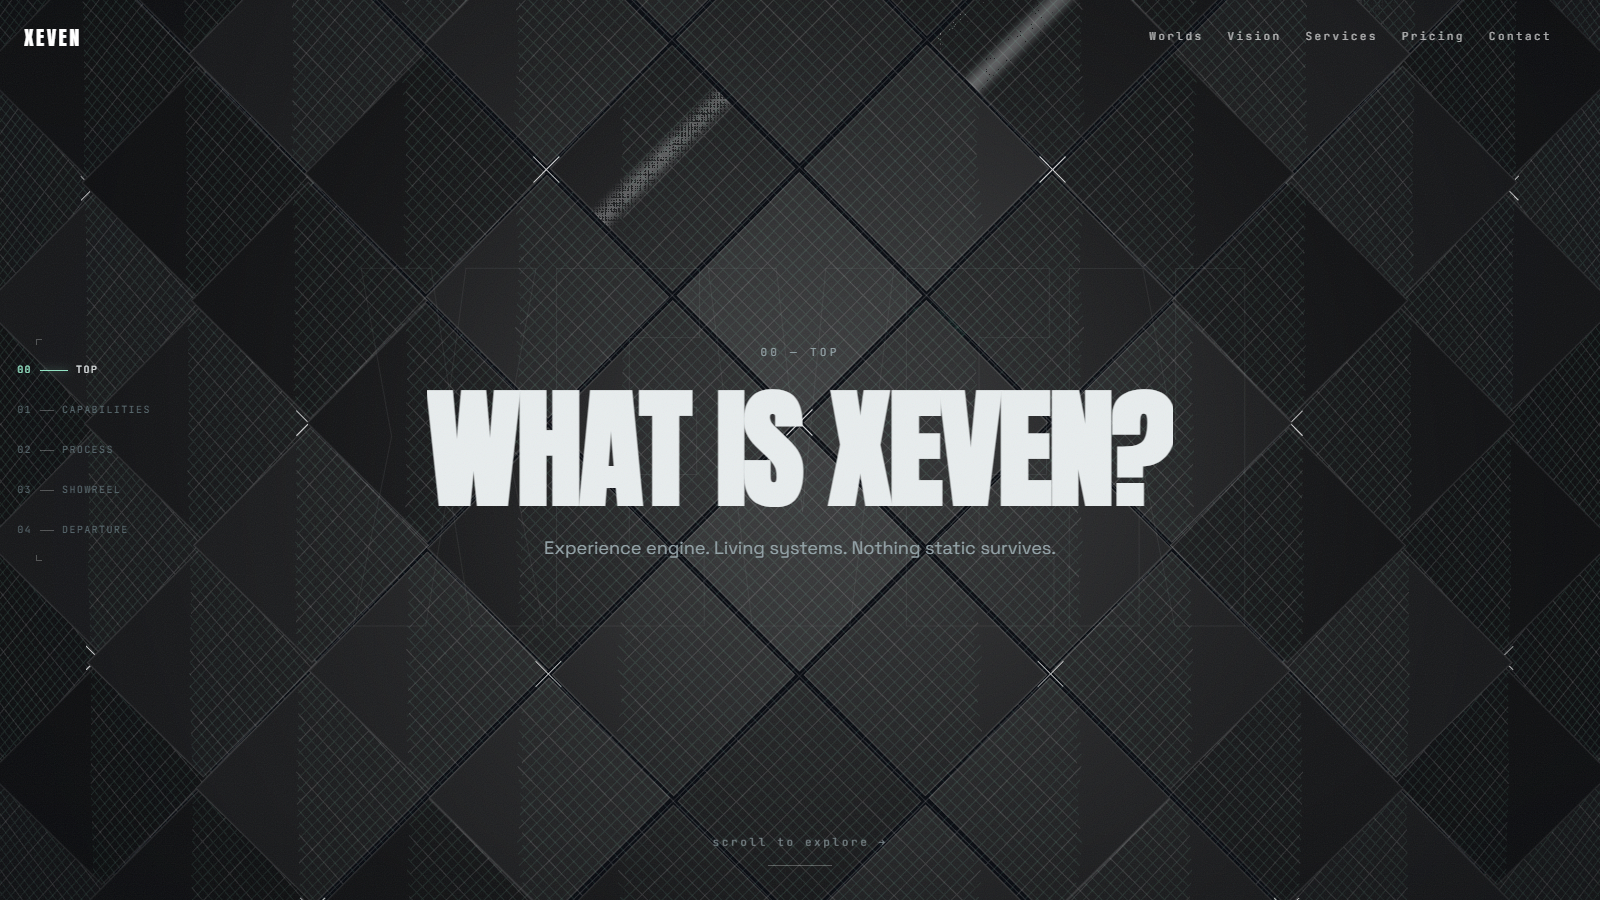
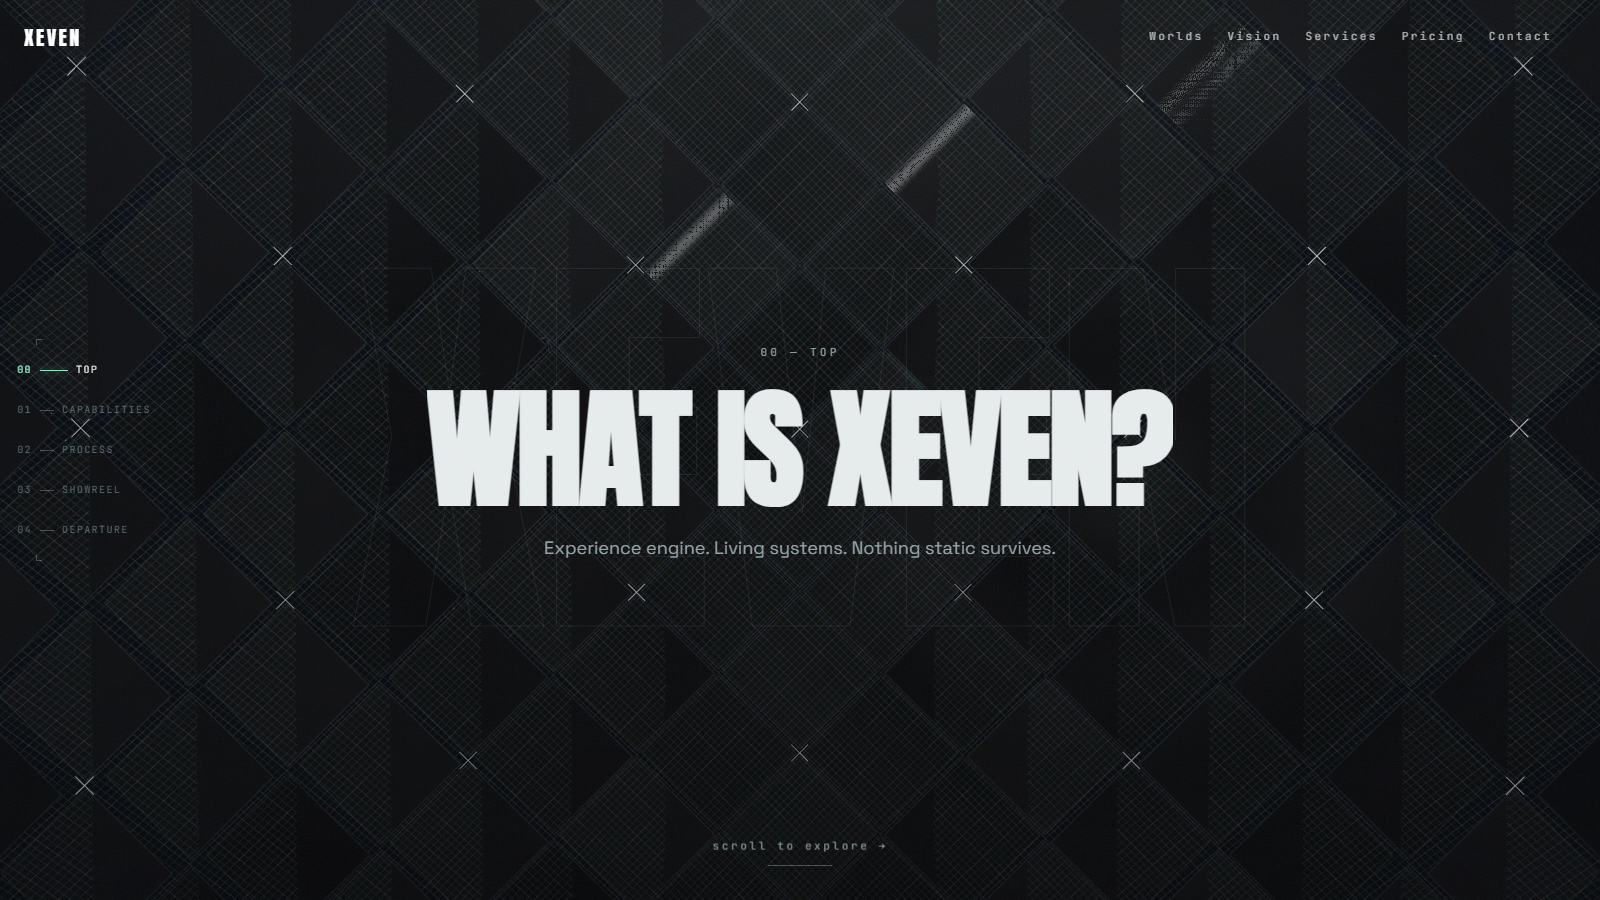
Execute A: inward cylinder, glass finish, liquid press, zero cursor light

diff --git a/src/components/VoidWorld.tsx b/src/components/VoidWorld.tsx
@@ -16,12 +16,13 @@ gsap.registerPlugin(ScrollTrigger)
  * normalized-progress waypoint camera (Grantmantek/zyliu grammar) lerped in
  * the loop so motion stays interruptible and scrub-reversible.
  *
- * The world: a 45° diamond lattice bowed on a convex cylinder (baked once
- * per resize), black quad panels with in-shader borders + breathing shimmer
- * + cursor kindle + 7s roaming cinema, plus survey crosses, an additive
- * starfield, four lit wireframe solids, exponential haze, and the shapeless
- * cursor presence is kindle light only: the field breathes around the
- * pointer, but no line, streak, or shape ever chases it — by design.
+ * The world: a 45° diamond lattice bowed on an INWARD (concave) cylinder —
+ * centre recedes, flanks come close, you sit inside it. Black quad panels
+ * with in-shader borders + breathing shimmer + 7s roaming cinema, survey
+ * crosses, an additive starfield, four lit wireframe solids, exponential
+ * haze. The pointer lights NOTHING, ever — its only touch is the liquid
+ * press (ripple + gloss that settles back solid). A fixed glass finish
+ * layer (DOM, zero blur) sits above for the crystal grade.
  *
  * 4D (time as the fourth dimension): uTime drives the cinema clock, haze
  * breathing, rim orbit and shimmer phase — the world evolves standing still.
@@ -32,11 +33,10 @@ gsap.registerPlugin(ScrollTrigger)
 
 const VOID = new THREE.Color(0x06090f)
 // world scale, calibrated to the mock's on-screen densities: quad ≈ 140px,
-// kindle σ ≈ 190px, plus grid ≈ 280px at 1600×900 (anything ~3× bigger
-// washes the field gray and triples the kindle falloff)
+// plus grid ≈ 280px at 1600×900
 const HALF = 14 // field half-extent, world units
 const GAP = 0.45
-const BOW = 2.2 // convex bulge at centre, world units
+const BOW = 2.2 // concave hollow at centre, world units
 const IDLE_MS = 6000
 
 const SECTIONS = [
@@ -97,8 +97,10 @@ export default function VoidWorld() {
 
     // ---- static geometry (rebuilt per resize / route tier) ----
     let statics: THREE.Object3D[] = []
+    // inward cylinder: the centre recedes, the flanks come close — you sit
+    // INSIDE the cylinder looking at walls curving away (subpages run flat).
     const bowZ = (x: number, showcase: boolean) =>
-      showcase ? BOW * Math.max(0, 1 - (x / HALF) * (x / HALF)) : 0
+      showcase ? -BOW * Math.max(0, 1 - (x / HALF) * (x / HALF)) : 0
 
     function buildStatic(showcase: boolean) {
       for (const o of statics) {
@@ -192,10 +194,7 @@ export default function VoidWorld() {
     quadGeo.setAttribute('aQJ', new THREE.InstancedBufferAttribute(aQJ, 1))
     const quadUniforms = {
       uTime: { value: 0 },
-      uCursor: { value: new THREE.Vector2(9999, 9999) },
-      uEcho: { value: new THREE.Vector2(9999, 9999) },
-      uStir: { value: 0 },
-      uBloom: { value: 0 },
+      uPress: { value: new THREE.Vector3(0, 0, -100) },
       uVel: { value: 0 },
       uShowcase: { value: 1 },
       uVoid: { value: new THREE.Vector3(0.0235, 0.0353, 0.0588) },
@@ -223,10 +222,7 @@ export default function VoidWorld() {
       `,
       fragmentShader: /* glsl */ `
         uniform float uTime;
-        uniform vec2 uCursor;
-        uniform vec2 uEcho;
-        uniform float uStir;
-        uniform float uBloom;
+        uniform vec3 uPress;
         uniform float uVel;
         uniform float uShowcase;
         uniform vec3 uVoid;
@@ -247,16 +243,21 @@ export default function VoidWorld() {
             1.0 - smoothstep(0.0, e.x * 1.5 + 1e-4, b.x),
             1.0 - smoothstep(0.0, e.y * 1.5 + 1e-4, b.y));
           col += vec3(1.0) * bl * 0.16;
-          // breathing shimmer riding the bow axis
+          // breathing shimmer riding the bow axis (scroll-kindled only —
+          // the pointer lights nothing, ever)
           float wave = 0.03 + 0.04 * (0.5 + 0.5 * sin(uTime * 1.5 - (vWorld.x * 0.14 + vWorld.y * 0.05) + vSeed * 6.28));
-          float amp = 1.0 + uStir * 0.9 + uBloom * 0.6 + uVel * 0.3;
+          float amp = 1.0 + uVel * 0.3;
           float glow = wave * amp;
-          // kindle falloffs in world units (≈190px / ≈330px at 1600×900)
-          float dc = distance(vWorld.xy, uCursor);
-          glow += (0.11 + uBloom * 0.1) * exp(-dc * dc / 12.0);
-          float de = distance(vWorld.xy, uEcho);
-          glow += 0.045 * exp(-de * de / 36.0);
           col += vec3(1.0) * glow * uShowcase;
+          // liquid press: a ripple + gloss swell where the pointer last
+          // touched, settling back solid over ~3.5s. Touch, not hover.
+          float age = uTime - uPress.z;
+          if (age > 0.0 && age < 4.0) {
+            float dp = distance(vWorld.xy, uPress.xy);
+            float ring = sin(dp * 2.2 - age * 5.0) * exp(-age * 1.0) * exp(-dp * 0.22);
+            float gloss = exp(-dp * dp / 8.0) * exp(-age * 0.9);
+            col += vec3(1.0) * (ring * 0.22 + gloss * 0.18) * uShowcase;
+          }
           // roaming cinema: sparse panels on a 7s clock
           float slot = floor(uTime / 7.0);
           float lp = fract(uTime / 7.0);
@@ -373,20 +374,11 @@ export default function VoidWorld() {
       group.add(mesh)
     }
 
-    // ---- cursor presence: eased finger + echo ring feed the shader
-    // kindle (light that breathes around the pointer). No streak geometry —
-    // nothing draws lines that chase the cursor, by design.
+    // ---- liquid press feed: pointer position for the ripple (touch only —
+    // the pointer lights nothing, ever; this only stamps where it pressed)
     let btx = window.innerWidth / 2
     let bty = window.innerHeight / 2
-    let bInside = true
-    let ccx = btx
-    let ccy = bty
-    let cvx = 0
-    let cvy = 0
-    let stir = 0
-    let bloom = 0
-    let ptx = btx
-    let pty = bty
+    let lastPressT = -10000
 
     // ---- waypoint journey ----
     let fracs: number[] = []
@@ -426,7 +418,6 @@ export default function VoidWorld() {
     const ndc = new THREE.Vector2()
     const plane = new THREE.Plane(new THREE.Vector3(0, 0, 1), -2.5)
     const hit = new THREE.Vector3()
-    const echo = { x: 9999, y: 9999 }
 
     const clock = new THREE.Clock()
     let lastInput = performance.now()
@@ -442,7 +433,7 @@ export default function VoidWorld() {
     function loop() {
       const dt = Math.min(0.05, clock.getDelta())
       const t = clock.elapsedTime
-      if (performance.now() - lastInput > IDLE_MS && bloom <= 0.01 && stir <= 0.03) {
+      if (performance.now() - lastInput > IDLE_MS) {
         xs.vel = 0
         ticking = false
         gsap.ticker.remove(loop)
@@ -486,39 +477,12 @@ export default function VoidWorld() {
           mm.userData.by + Math.sin(t * mm.userData.fs + mm.userData.fo) * mm.userData.fa
       }
 
-      // cursor feed: eased finger + echo ring + velocity + click bloom
-      if (bInside) {
-        ccx += (btx - ccx) * 0.18
-        ccy += (bty - ccy) * 0.18
-        echo.x += (btx - echo.x) * 0.07
-        echo.y += (bty - echo.y) * 0.07
-      }
-      const rvx = (btx - ptx) / Math.max(1, dt * 1000)
-      const rvy = (bty - pty) / Math.max(1, dt * 1000)
-      ptx = btx
-      pty = bty
-      cvx += (rvx - cvx) * 0.15
-      cvy += (rvy - cvy) * 0.15
-      const spd = Math.hypot(cvx, cvy)
-      stir += ((bInside ? Math.min(1, spd * 0.9) : 0) - stir) * 0.08
-      bloom = Math.max(0, bloom * Math.pow(0.93, (dt * 1000) / 16.7))
+      // scroll kindle only (the pointer lights nothing — see uPress)
       const vBoost = Math.min(1, xs.vel * 1.5) * 0.3
       xs.vel *= 0.9
 
-      // uniforms: the whole quad field runs on these + time
-      ndc.set((ccx / window.innerWidth) * 2 - 1, -(ccy / window.innerHeight) * 2 + 1)
-      raycaster.setFromCamera(ndc, camera)
-      if (raycaster.ray.intersectPlane(plane, hit)) {
-        ;(quadUniforms.uCursor.value as THREE.Vector2).set(hit.x, hit.y)
-      }
-      ndc.set((echo.x / window.innerWidth) * 2 - 1, -(echo.y / window.innerHeight) * 2 + 1)
-      raycaster.setFromCamera(ndc, camera)
-      if (raycaster.ray.intersectPlane(plane, hit)) {
-        ;(quadUniforms.uEcho.value as THREE.Vector2).set(hit.x, hit.y)
-      }
+      // uniforms: the whole quad field runs on time + scroll + press
       quadUniforms.uTime.value = t
-      quadUniforms.uStir.value = stir
-      quadUniforms.uBloom.value = bloom
       quadUniforms.uVel.value = vBoost
 
       renderer.render(scene, camera)
@@ -527,20 +491,18 @@ export default function VoidWorld() {
     const onMove = (e: PointerEvent) => {
       pm.x = e.clientX / window.innerWidth - 0.5
       pm.y = e.clientY / window.innerHeight - 0.5
+      // liquid press, throttled: stamp position + time, the shader settles
+      // it back solid over ~2.5s. No hover light, no follow glow.
+      const now = performance.now()
+      if (now - lastPressT < 60) return
+      lastPressT = now
       btx = e.clientX
       bty = e.clientY
-      bInside = true
-      if (echo.x > 9000) {
-        echo.x = btx
-        echo.y = bty
+      ndc.set((btx / window.innerWidth) * 2 - 1, -(bty / window.innerHeight) * 2 + 1)
+      raycaster.setFromCamera(ndc, camera)
+      if (raycaster.ray.intersectPlane(plane, hit)) {
+        ;(quadUniforms.uPress.value as THREE.Vector3).set(hit.x, hit.y, clock.elapsedTime)
       }
-    }
-    const onDown = (e: PointerEvent) => {
-      onMove(e)
-      bloom = 1
-    }
-    const onGone = () => {
-      bInside = false
     }
     const onResize = () => {
       camera.aspect = window.innerWidth / window.innerHeight
@@ -554,7 +516,6 @@ export default function VoidWorld() {
       buildStatic(showcase)
       layoutQuads(showcase)
       quadUniforms.uShowcase.value = showcase ? 1 : 0.5
-      bloom = 1 // switch pulse knits the X veil to the field
       computeWaypoints()
       wake()
     }
@@ -591,24 +552,18 @@ export default function VoidWorld() {
     gsap.ticker.add(loop)
     window.addEventListener('pointermove', onMove, { passive: true })
     window.addEventListener('pointermove', wake, { passive: true })
-    window.addEventListener('pointerdown', onDown, { passive: true })
     window.addEventListener('pointerdown', wake, { passive: true })
     window.addEventListener('wheel', wake, { passive: true })
     window.addEventListener('scroll', wake, { passive: true })
-    window.addEventListener('pointerleave', onGone, { passive: true })
-    window.addEventListener('blur', onGone)
     window.addEventListener('resize', onResize)
     window.addEventListener('hashchange', onHash)
     document.addEventListener('visibilitychange', onVis)
     return () => {
       window.removeEventListener('pointermove', onMove)
       window.removeEventListener('pointermove', wake)
-      window.removeEventListener('pointerdown', onDown)
       window.removeEventListener('pointerdown', wake)
       window.removeEventListener('wheel', wake)
       window.removeEventListener('scroll', wake)
-      window.removeEventListener('pointerleave', onGone)
-      window.removeEventListener('blur', onGone)
       window.removeEventListener('resize', onResize)
       window.removeEventListener('hashchange', onHash)
       document.removeEventListener('visibilitychange', onVis)

diff --git a/src/chrome.css b/src/chrome.css
@@ -31,6 +31,15 @@
 /* world layer: the unified VOIDWORLD canvas (lattice + panels + solids +
    presence, one draw journey) below content (same z token, later in DOM) */
 .world-fixed { position: fixed; inset: 0; z-index: var(--z-graph); pointer-events: none; }
+/* glass finish: lens grade between world and content. Top sheen + deep
+   vignette unify the field into a crystal finish. Zero blur, zero
+   backdrop-filter (both repaint the field every frame) — gradients only. */
+.glass-finish {
+  position: fixed; inset: 0; z-index: var(--z-graph); pointer-events: none;
+  background:
+    radial-gradient(120% 70% at 50% 0%, rgba(232, 237, 238, 0.055), transparent 55%),
+    radial-gradient(150% 130% at 50% 115%, rgba(0, 0, 0, 0.5), transparent 62%);
+}
 /* no custom cursor: native pointer only, fully visible, zero decoration. */
 
 /* ---------- topbar: bar-free by design ---------- */

diff --git a/src/App.tsx b/src/App.tsx
@@ -120,6 +120,9 @@ export default function App() {
       <Suspense fallback={null}>
         <VoidWorld />
       </Suspense>
+      {/* glass finish: a lens grade between world and content — sheen +
+          depth vignette, zero blur, zero backdrop-filter, pointer-transparent */}
+      <div className="glass-finish" aria-hidden="true" />
       <main id="main" key={route}>
         <Suspense fallback={null}>
           {route === 'enter' && <EnterStage />}

diff --git a/backlog.md b/backlog.md
@@ -52,6 +52,7 @@ Scope frozen: map-only phase found zero blank routes, zero dead links, zero cons
 - [x] STRATA background lineage (G:\mocks\background mock 01 replaces the dot lattice): ported archBg + cursor blob + pointer feed to src/components/strata/; GraphBg.tsx DELETED (App now mounts StrataBg). Mock locks kept (parked sheet, no cursor pull, native cursor, motion-intensity blob that drains at rest, baked static layers, adaptive DPR). Improvements over the mock: void #06090f base (melts into page, black mesh still carves), mint micro-fractures (no purple), showcase tier (index full convex bow + full glow, subpages flat + half glow, rebuild on hashchange), scroll-velocity kindle via xs.vel (decayed in-frame), 6s idle sleep with input wake, hidden-tab pause, route-switch bloom pulse knitting the X veil. Seamless-experience wiring: clicks bloom anywhere, flicks stir the field, switches flash the field under the veil. Verified: build green, tsc clean, oxlint 3 pre-existing warnings, Edge 60fps hero / 0 errors / 0 overflow (1600 + 390), canvas overscanned 1696×996 @ −48/−48, old canvas gone, worlds flat tier persists. Frames e0/e1/e2 VISUALLY VERIFIED (convex bow + mesh + plus marks + mint fractures + kindle glow + quad chevrons; deck cards over the field; flat diamond on Worlds). Evidence: verify/strata/d2-strata.json + 3 frames, scripts/d2-strata.mjs.
 - [x] VOIDWORLD from scratch (unified 1-canvas-1-ticker-1-journey rebuild; STRATA 2D + void-objects layers both retired): per-step research (baked-BufferGeometry line families, InstancedMesh + ShaderMaterial per-instance-attribute fields, waypoint-camera grammar) then rebuilt the lineage as real 3D — 45° diamond lattice bowed on a convex cylinder (baked once per resize; 3 static draws: bone grid / mint micro / survey crosses), 225 instanced diamond panels aligned to the rails with in-shader hairline borders + breathing shimmer + cursor/echo kindle + 7s roaming cinema, starfield, 4 lit wireframe solids, FogExp2 haze, ported cursor-blob streaks, waypoint camera (1 stop per index section, lerped = interruptible + scrub-reversible), uTime 4D evolution, DPR caps, 6s idle sleep, hidden-tab pause, single-frame reduced stand-down, full dispose. Debugged with evidence at each step: rescaled world 3× to mock densities (fixed gray wash), corrected rail basis (a collapsed line family), aligned quads to rails as diamonds, dimmed borders to hairlines — verified by pixel sampling + layer-isolation probes + a kept __voidworld debug handle. Verified: build green, tsc clean, 3 pre-existing warnings, Edge 0 errors / 0 overflow, legacy canvases gone, worlds flat-park + return alive, deck/ghost/thread/rail/counter/clock intact over the new field. PERF HONESTY: 12fps headless SwiftShader (CPU rasterizer, fill-bound) vs 60fps strata-only same env — ~10 draw calls, no postprocessing, sleeps at idle; GPU hardware idles this scene, number is environment tax. Chunk: VoidWorld async 556KB raw / 140KB gzip, never blocks first paint. Frames g0/g1/g2 + iso-nq2 VISUALLY VERIFIED (diamond bow, kindle at cursor, deck over field, ember rows, finale rail). Evidence: verify/world/d4-world.json + 3 frames, scripts/d4-world.mjs.
 - [x] Correction pass (9 notes): bar-free navbar (content floats, zero bar chrome); custom cursor fully deleted (native only, 0 dots 0 rings verified); rail clears the process gutter (rows + spine shifted right, thread/stub/node math follows, mobile reclaims gutter); X grow + white spread removed (mark simply yields at proc end, process integrates with the dark field — thread/node/row-light carry it); intro reborn as MERGE (full-field bone spheres gather distance-delayed into a mint mass, ledger live, no ember, no burst). Verified: builds green, 3 pre-existing warnings, Edge 0 errors / 0 overflow, intro ledger 039→059 live. Frames VISUALLY VERIFIED (merge mass with mint heart; dark process with ember rows + node + bone mark; instrument rail clear). Evidence: refreshed g3 + g2 in verify/world/.
+- [x] Execute A — inward cylinder + glass + liquid + zero cursor light: bow inverted (centre recedes, flanks close — you sit inside it); all cursor-light uniforms/terms excised from shader + CPU (kindle, echo, stir, click/switch bloom — the pointer lights nothing); liquid press added (throttled 60ms stamps of position + time, in-shader ripple + gloss settling over ~3.5s); fixed glass finish layer (sheen + depth vignette, zero blur/filter) between world and content. Probed honestly: first pass too subtle (+2.5 zone lift), amplitudes retuned until the touch reads then decays. Verified: build green, 3 pre-existing warnings, Edge 0 errors, concave depth + press gloss frames confirmed. Evidence: verify/world/h0-liquid-press.png.
 - [x] Capabilities + Showreel overhaul (full authority): CAPS cards were empty gradient slabs in a sprawling zigzag — now spec sheets (stack chips WebGL/GLSL/60fps etc., ghost numerals kept, Tilt kept) on a tightened 12vh rhythm with rail-clear gutter. Showreel rebuilt as cinema: letterbox bars closing over the pin, Ken Burns breathing inside every hold (inner-media scale, zero writer conflicts), single-timeline takes with counter. Verified: build green, 3 pre-existing warnings, Edge 0 errors / 0 overflow, stage 03/05 mid-pin, 2 bars, 12 spec chips, rail clears cards. Frames VISUALLY VERIFIED (spec-sheet card + dealing deck; letterboxed Chrome-drift take with ghost marquee). Evidence: verify/world/d4-world.json + g1 + g4.
 - [x] Capabilities + Showreel creative destruction: CAPS cards + deck-throw + Tilt + ghosts fully removed — capabilities are now a SPECIMEN INDEX (giant ruled titles, IO opens the centered row revealing media + data + stack chips, click exclusive, reduced stands fully open). Showreel conveyor/stage gone — takes now ride an ORBITAL RING (scrubbed 360° revolution, upright unreadable-never titles, depth scale/opacity/zIndex, front-take counter, letterbox + ghost kept, single layout writer, viewport-relative ellipse = resize-proof). Verified: build green, 3 pre-existing warnings, Edge 0 errors / 0 overflow, counter live, 12 chips. Frames VISUALLY VERIFIED (open specimen with media+chips over ruled list; orbital depth collage with letterbox). Evidence: verify/world/d4-world.json + refreshed g1 + g4.
 - [x] Reel declutter: white veil wash + letterbox bars fully removed (timeline, elements, CSS, reduced rules) — the orbit now floats pure on the diamond field with ghost + counter only. Verified: build green, 3 pre-existing warnings, Edge 0 errors / 0 overflow. Frame VISUALLY VERIFIED (clean dark orbit, no wash, no bars). Evidence: refreshed g4.
